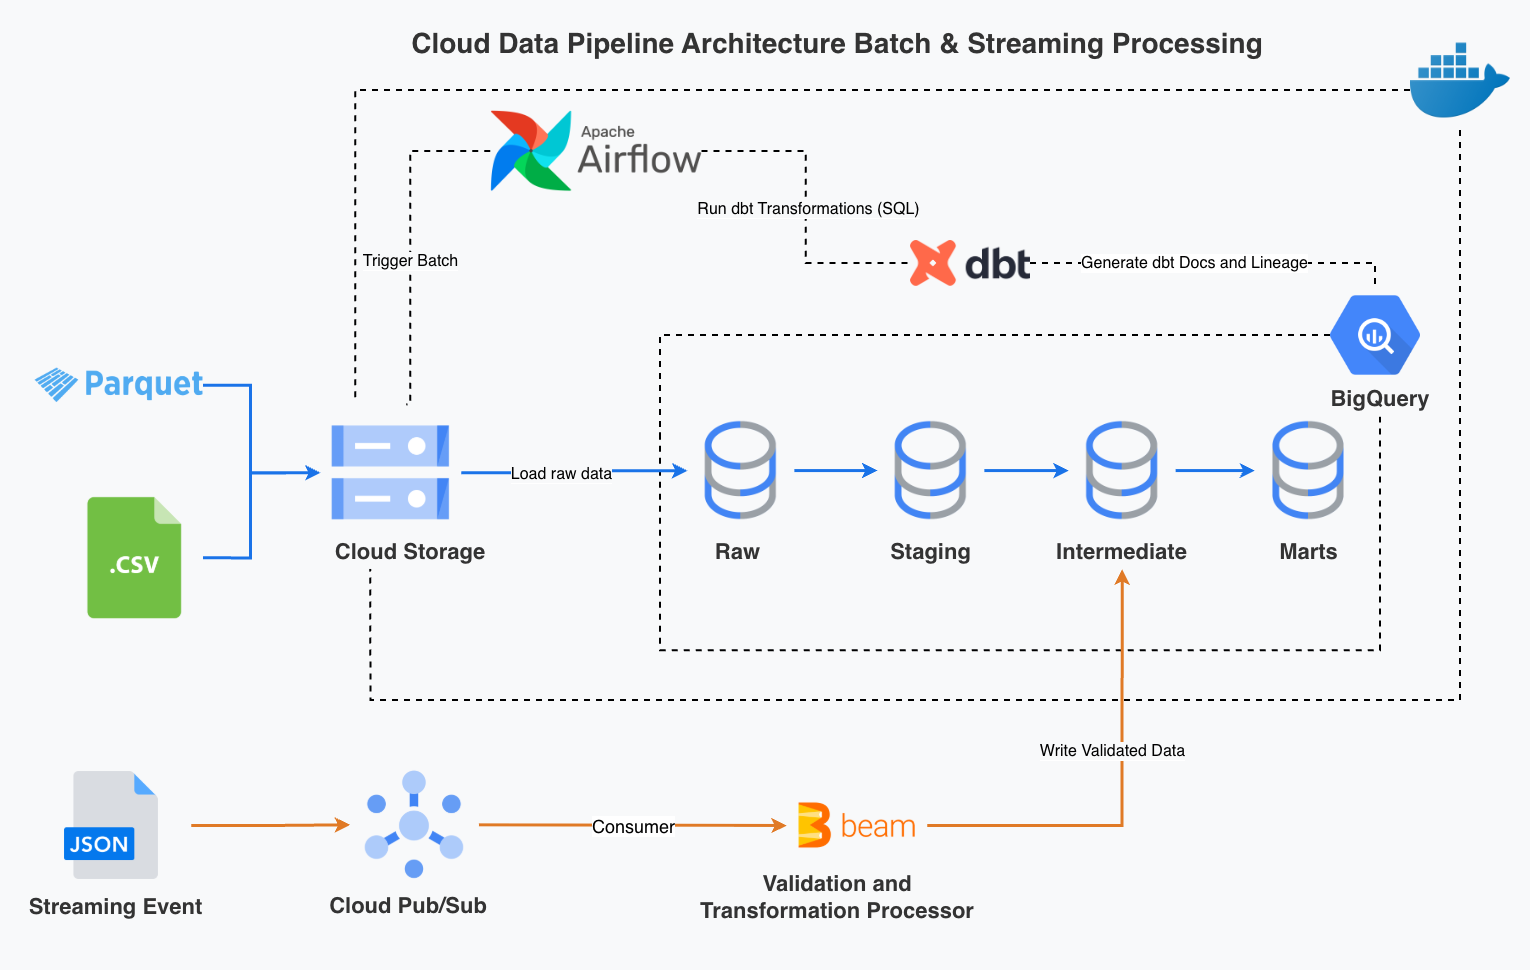
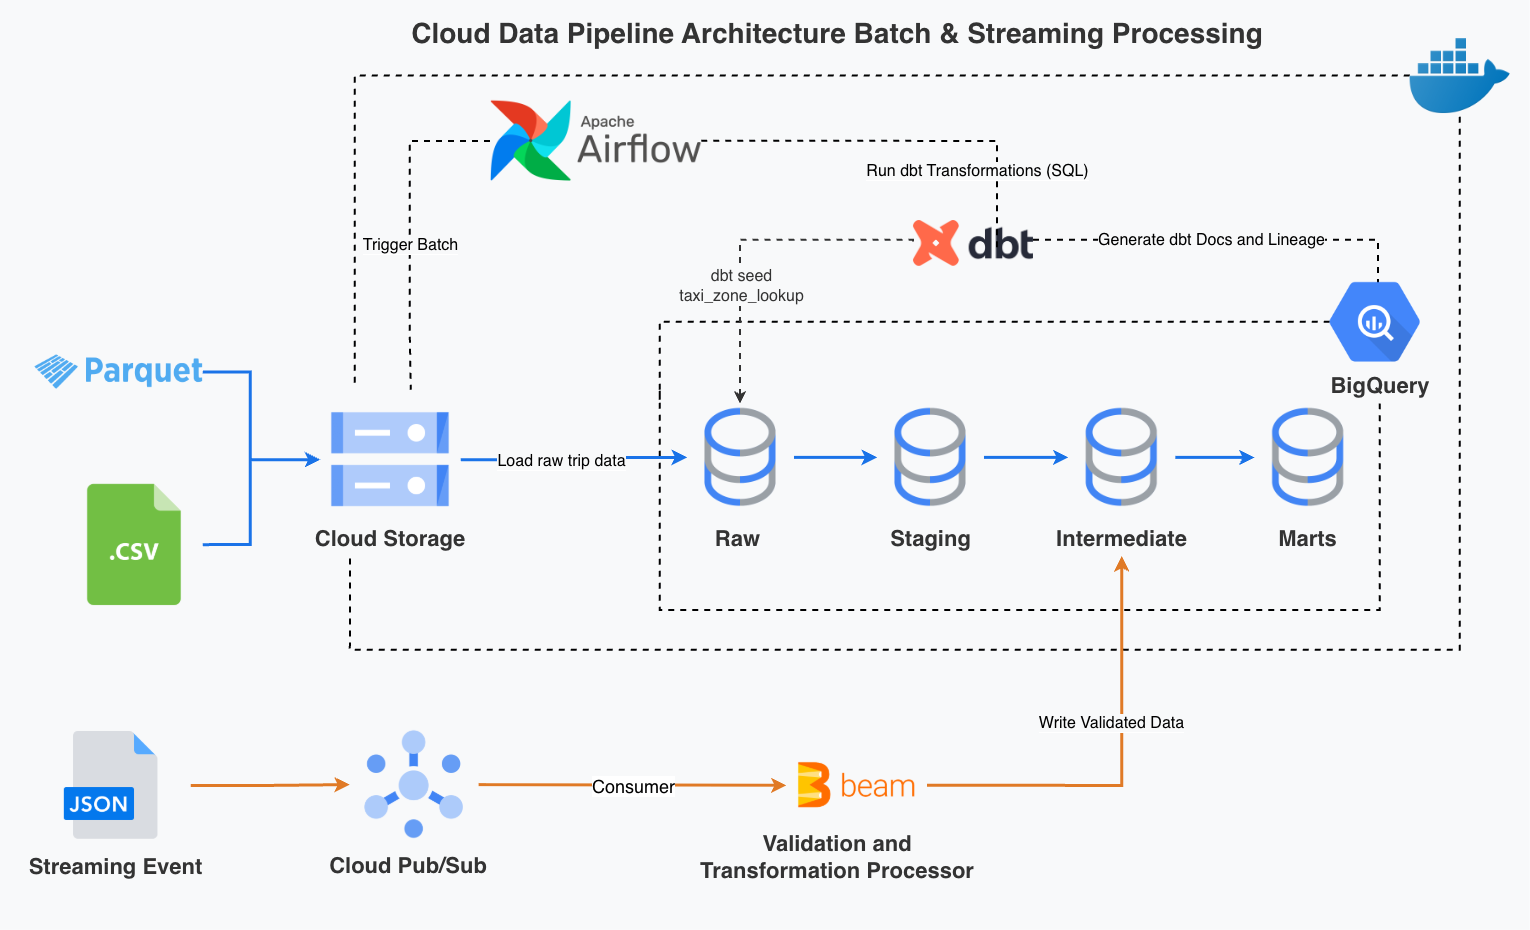
docs: update project architecture and setup

diff --git a/README.md b/README.md
@@ -8,40 +8,9 @@ The platform covers the full data lifecycle, from raw ingestion, cleaning, and v
 ---
 
 
-## Table of Contents
+## Architecture
 
-1. [System Architecture](#system-architecture)
-2. [Data Source Information](#data-source-information)
-3. [Technology Stack](#technology-stack)
-4. [Project Structure](#project-structure)
-5. [Assumptions](#assumptions)
-6. [Setup & Configuration](#setup--configuration)
-7. [Running the Batch Pipeline](#running-the-batch-pipeline)
-8. [Running the Streaming Pipeline](#running-the-streaming-pipeline)
-9. [Data Model](#data-model)
-10. [Data Quality Validation](#data-quality-validation)
-11. [Idempotency Strategy](#idempotency-strategy)
-12. [Partitioning & Clustering](#partitioning--clustering)
-13. [Analytical Queries](#analytical-queries)
-14. [Proof of Execution](#proof-of-execution)
-15. [Future Development](#future-development)
-
-
----
-
-## System Architecture
-
-![System Architecture](docs/images/architecture.png)
-
-The pipeline has two independent data flows that converge at the BigQuery warehouse:
-
-### Batch
-
-GCS (raw Parquet) → Airflow (`GCSToBigQueryOperator`) → BigQuery `raw` → dbt (`staging` → `intermediate` → `marts`)
-
-### Streaming
-
-Event generator → Pub/Sub → Apache Beam (validation + transform) → BigQuery `intermediate` (clean/quarantine)
+![Architecture](docs/images/architecture.png)
 
 
 ---
@@ -65,16 +34,17 @@ Event generator → Pub/Sub → Apache Beam (validation + transform) → BigQuer
 
 ## Technology Stack
 
-| Category             | Technology                 |
-| -------------------- | -------------------------- |
-| Programming Language | Python 3.11                |
-| Data Orchestration   | Apache Airflow 2.10.5      |
-| Data Transformation  | dbt                        |
-| Data Warehouse       | Google BigQuery            |
-| Cloud Storage        | Google Cloud Storage       |
-| Message Broker       | Google Cloud Pub/Sub       |
-| Streaming Processing | Apache Beam                |
-| Containerization     | Docker & Docker Compose    |
+| Category                | Technology                 |
+| ------------------------| -------------------------- |
+| Programming Language    | Python 3.11                |
+| Data Orchestration      | Apache Airflow 2.10.5      |
+| Data Transformation     | dbt                        |
+| Data Warehouse          | Google BigQuery            |
+| Cloud Storage           | Google Cloud Storage       |
+| Message Broker          | Google Cloud Pub/Sub       |
+| Streaming Processing    | Apache Beam                |
+| Containerization        | Docker & Docker Compose    |
+| Infrastructure as Code  | Terraform                  |
 
 
 ---
@@ -91,6 +61,7 @@ cloud-data-pipeline/
 ├── notebook/              # EDA notebooks
 ├── scripts/               # Batch and streaming scripts
 ├── utils/                 # Shared utilities
+├── terraform/             # Infrastructure as Code                 
 ├── .env.example
 ├── .gitignore
 ├── docker-compose.yml
@@ -152,16 +123,26 @@ cloud-data-pipeline/
    gcloud auth application-default login
 ```
 
-5. **Provision your GCP infrastructure**
+5. **Provision the GCP infrastructure with Terraform**
+
+   Terraform manages the GCP infrastructure required by the pipeline, including the GCS bucket, BigQuery datasets and streaming tables, Pub/Sub schema, topic, and subscription.
 ```bash
-   python3 -m scripts.batch.create_bucket
-   python3 -m scripts.batch.download_upload_raw
-   python3 -m scripts.streaming.setup_bigquery
-   gcloud pubsub topics create <your-topic-name>
-   gcloud pubsub subscriptions create <your-subscription-name> --topic=<your-topic-name>
+   cd terraform
+   terraform init
+   terraform plan
+   terraform apply
+   cd ..
 ```
 
-6. **Set up the dbt profile**
+6. **Ingest the raw datasets**
+
+   The raw ingestion script downloads each configured dataset to the local data/raw/ directory first. The local file is then uploaded to the raw/ prefix in the Terraform-managed GCS bucket.
+```bash
+   python3 -m scripts.batch.download_upload_raw
+```
+   The process is idempotent: existing local files are reused, and files that already exist in GCS are not uploaded again.
+
+7. **Set up the dbt profile**
 
    The dbt profile is not committed to the repository because it contains environment-specific configuration. Copy the provided template to the default dbt configuration directory:
 ```bash
@@ -181,7 +162,7 @@ cloud-data-pipeline/
    cd ..
 ```
 
-7. **Set up the dbt seed**
+8. **Set up the dbt seed**
 
    The `taxi_zone_lookup.csv` file is a static reference dataset managed by dbt as a seed. Copy it from GCS into the dbt seeds directory:
 ```bash
@@ -195,7 +176,7 @@ cloud-data-pipeline/
 ```
    The seed is loaded once during the initial setup and is not reloaded by the monthly Airflow batch pipeline.
 
-8. **Start Airflow locally**
+9. **Start Airflow locally**
 ```bash
    docker compose up -d airflow-init
    docker compose up -d
@@ -259,7 +240,7 @@ This mode uses `DirectRunner` by default to process events directly in the local
 To ensure streaming pipeline SLA compliance, dbt monitors real-time ingestion latency on `stream_trips_clean`:
 
 ```bash
-dbt source freshness --select source:stream_trips_clean
+dbt source freshness --select source:streaming
 ```
 
 Failures usually mean upstream Pub/Sub or streaming worker issues, letting us catch delays before they hit downstream consumers.
@@ -279,7 +260,7 @@ The data warehouse follows a layered structure for both batch and streaming data
 | Raw | `raw_taxi_trip`, `taxi_zone_lookup` | Stores source data as ingested from the source files. |
 | Staging | `stg_taxi_trip`, `stg_taxi_zone` | Standardizes the raw trip data. |
 | Intermediate | `int_trips_flagged`, `int_trips_clean`, `int_trips_enriched`, `int_quarantine_trips`, `dq_check_result` | Applies validation, transformation, join, and quarantine handling. |
-| Marts | `daily_trips`, `hourly_demand`, `payment_behavior`, `route`, `zone_performance_summary`, `batch_streaming_comparison` | Provides aggregated datasets for analytical use. |
+| Marts | `unified_trips`, `daily_trips`, `hourly_demand`, `payment_behavior`, `route`, `zone_performance_summary` | Provides aggregated datasets for analytical use. |
 
 ### Streaming
 
@@ -322,15 +303,15 @@ The batch pipeline records validation results in `dq_check_result`, including th
 
 ### Batch
 
-- Pipeline execution is parameterized using `reporting_year_month`.
-- Existing records for the processing period are removed before new data is loaded to support idempotent reprocessing.
-- Incremental models use a merge strategy with defined unique keys to prevent duplicates and update existing records when the same period is reprocessed, while mart models are rebuilt on each run to ensure the latest results.
+- Pipeline execution is parameterized using `reporting_year_month` to define the processing period.
+- Existing records for the processing period are removed before new data is loaded, allowing the same reporting period to be safely reprocessed.
+- dbt incremental models use a `merge` strategy with defined unique keys to update existing records and prevent duplicate records when the same records are processed again.
+- Mart models are rebuilt on each run to ensure that downstream results reflect the latest processed data.
 
 ### Streaming
 
-* Every event contains a unique `event_id` for event identification.
-* Invalid events are routed to the quarantine table with their validation failure reasons.
-* Valid events are processed and written to the curated streaming layer.
+- Every event is assigned a unique `event_id` to provide event-level identification and traceability.
+- The current streaming pipeline does not perform deduplication based on `event_id`; duplicate delivery of the same event can therefore result in duplicate rows.
 
 
 ---
@@ -345,24 +326,6 @@ The `raw_taxi_trip` table is partitioned by `lpep_pickup_datetime` on a monthly 
 ### Streaming
 
 The `stream_trips_clean` and `stream_trips_quarantine` tables are partitioned by `event_time` on a daily basis. No clustering is used because the streaming data is relatively small and is mainly queried by event time. Daily partitioning helps reduce the amount of data scanned when querying a specific time period.                                         |
-
-
----
-
-
-## Analytical Queries
-
-### 1. Batch Analysis
-
-The batch marts are used to analyze historical trip patterns, including daily and hourly demand, payment behavior, route performance, and zone performance.
-
-### 2. Batch vs. Streaming Comparison
-
-The `batch_streaming_comparison.sql` query compares batch and streaming data using trip count, average trip distance, average fare amount, and average total amount. This helps check whether the generated streaming data follows the patterns found in the batch data.
-
-### 3. Data Quality Analysis
-
-Data quality queries are used to review validation results and quarantined records. They show rule failure rates and the main reasons why streaming events were rejected.
 
 
 ---
